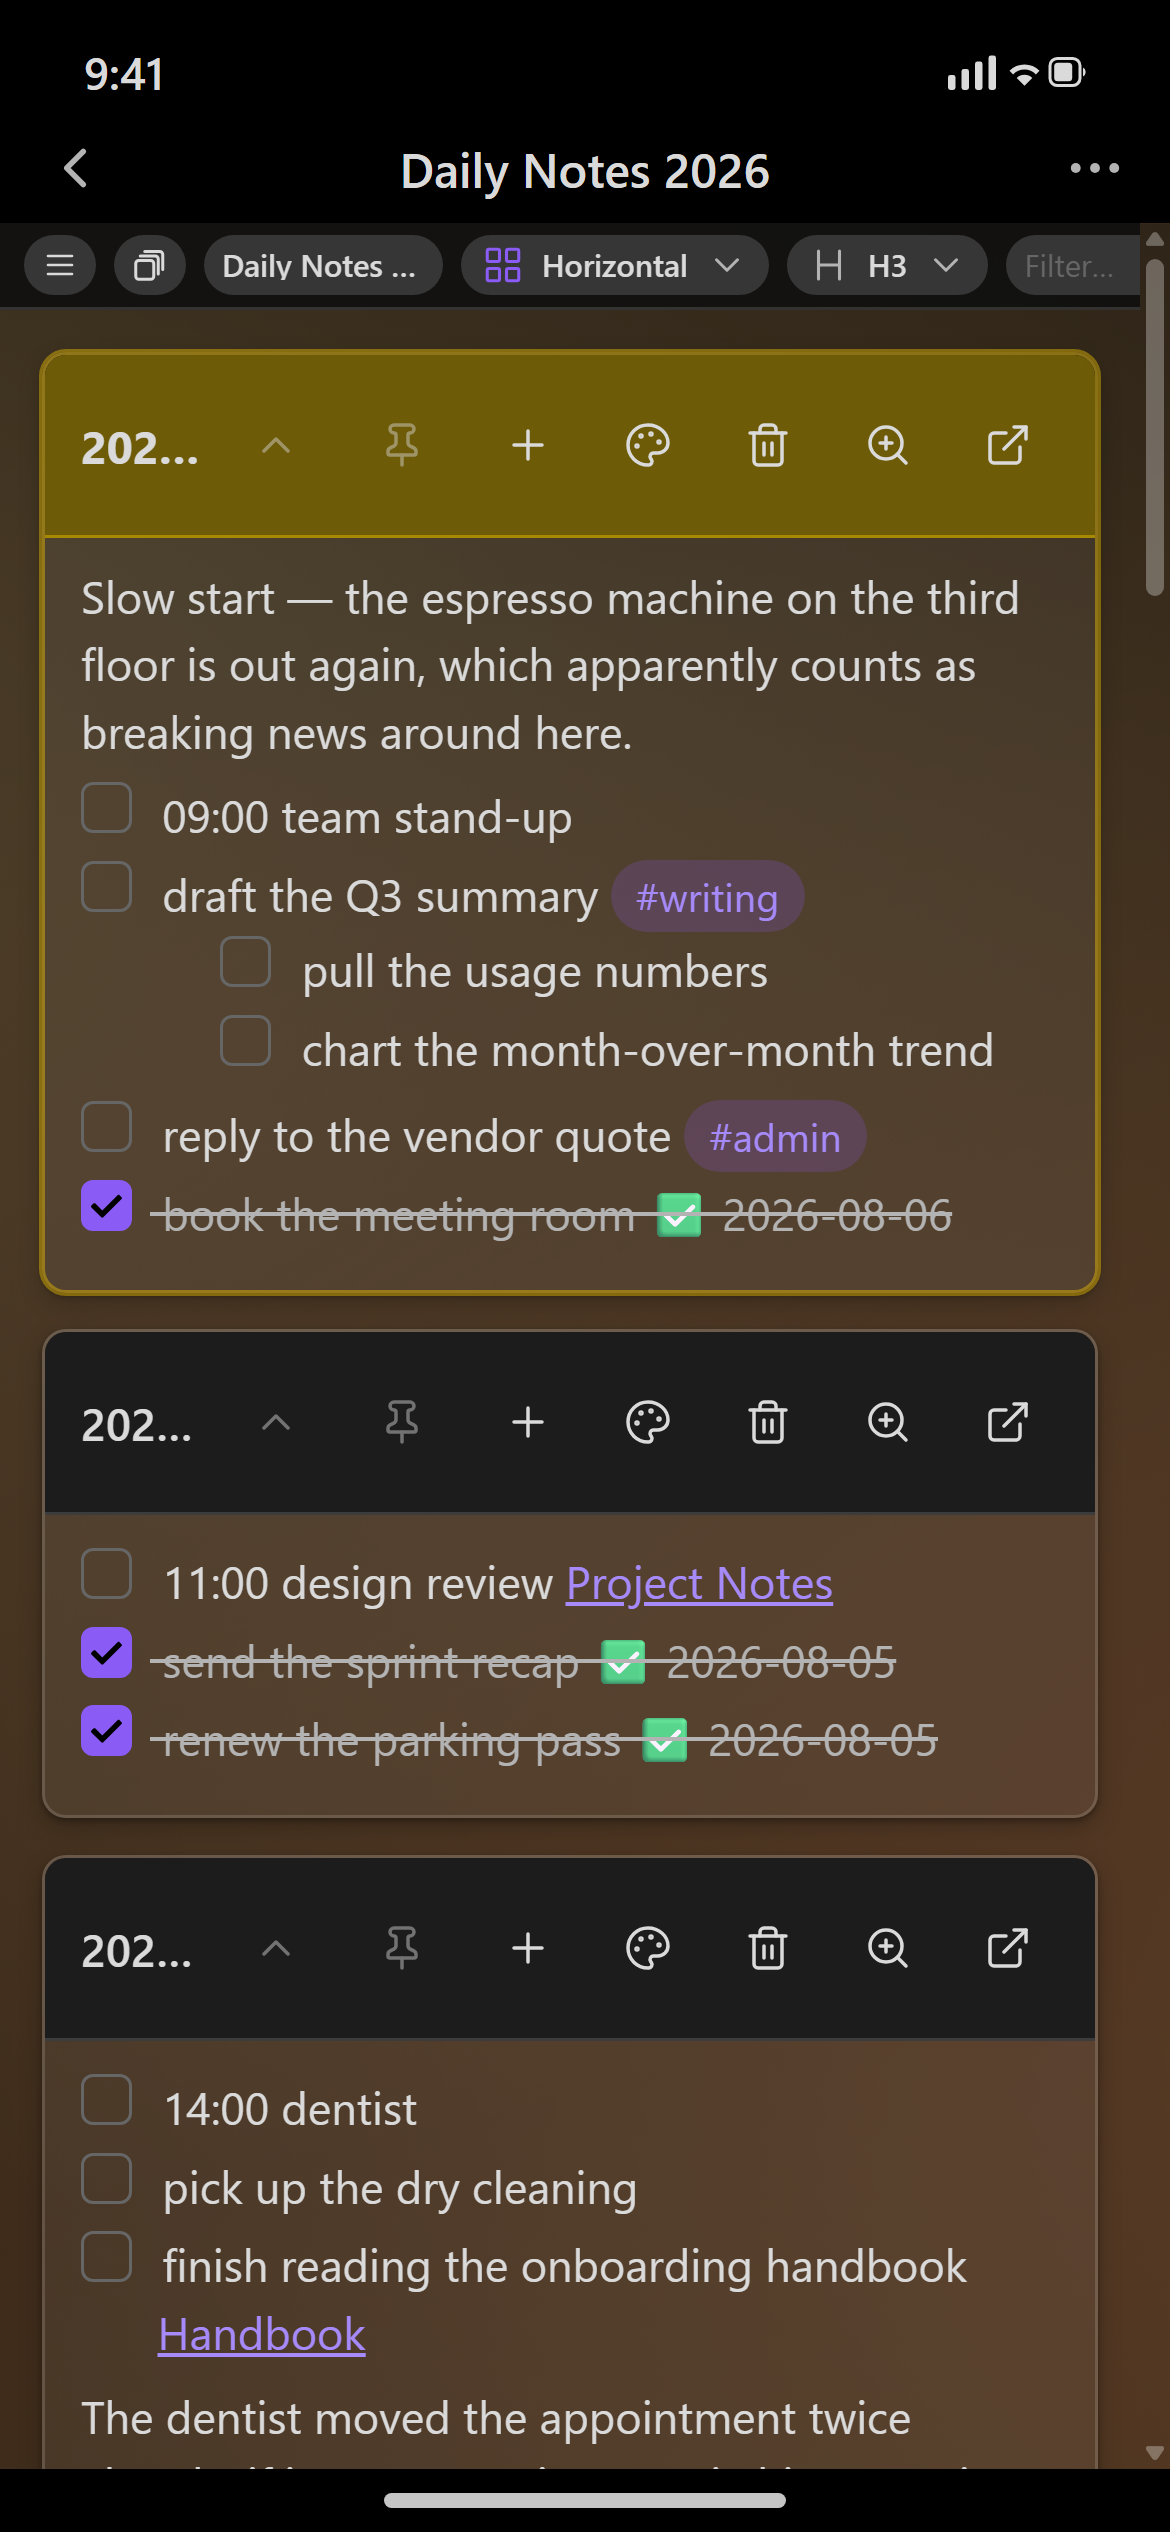
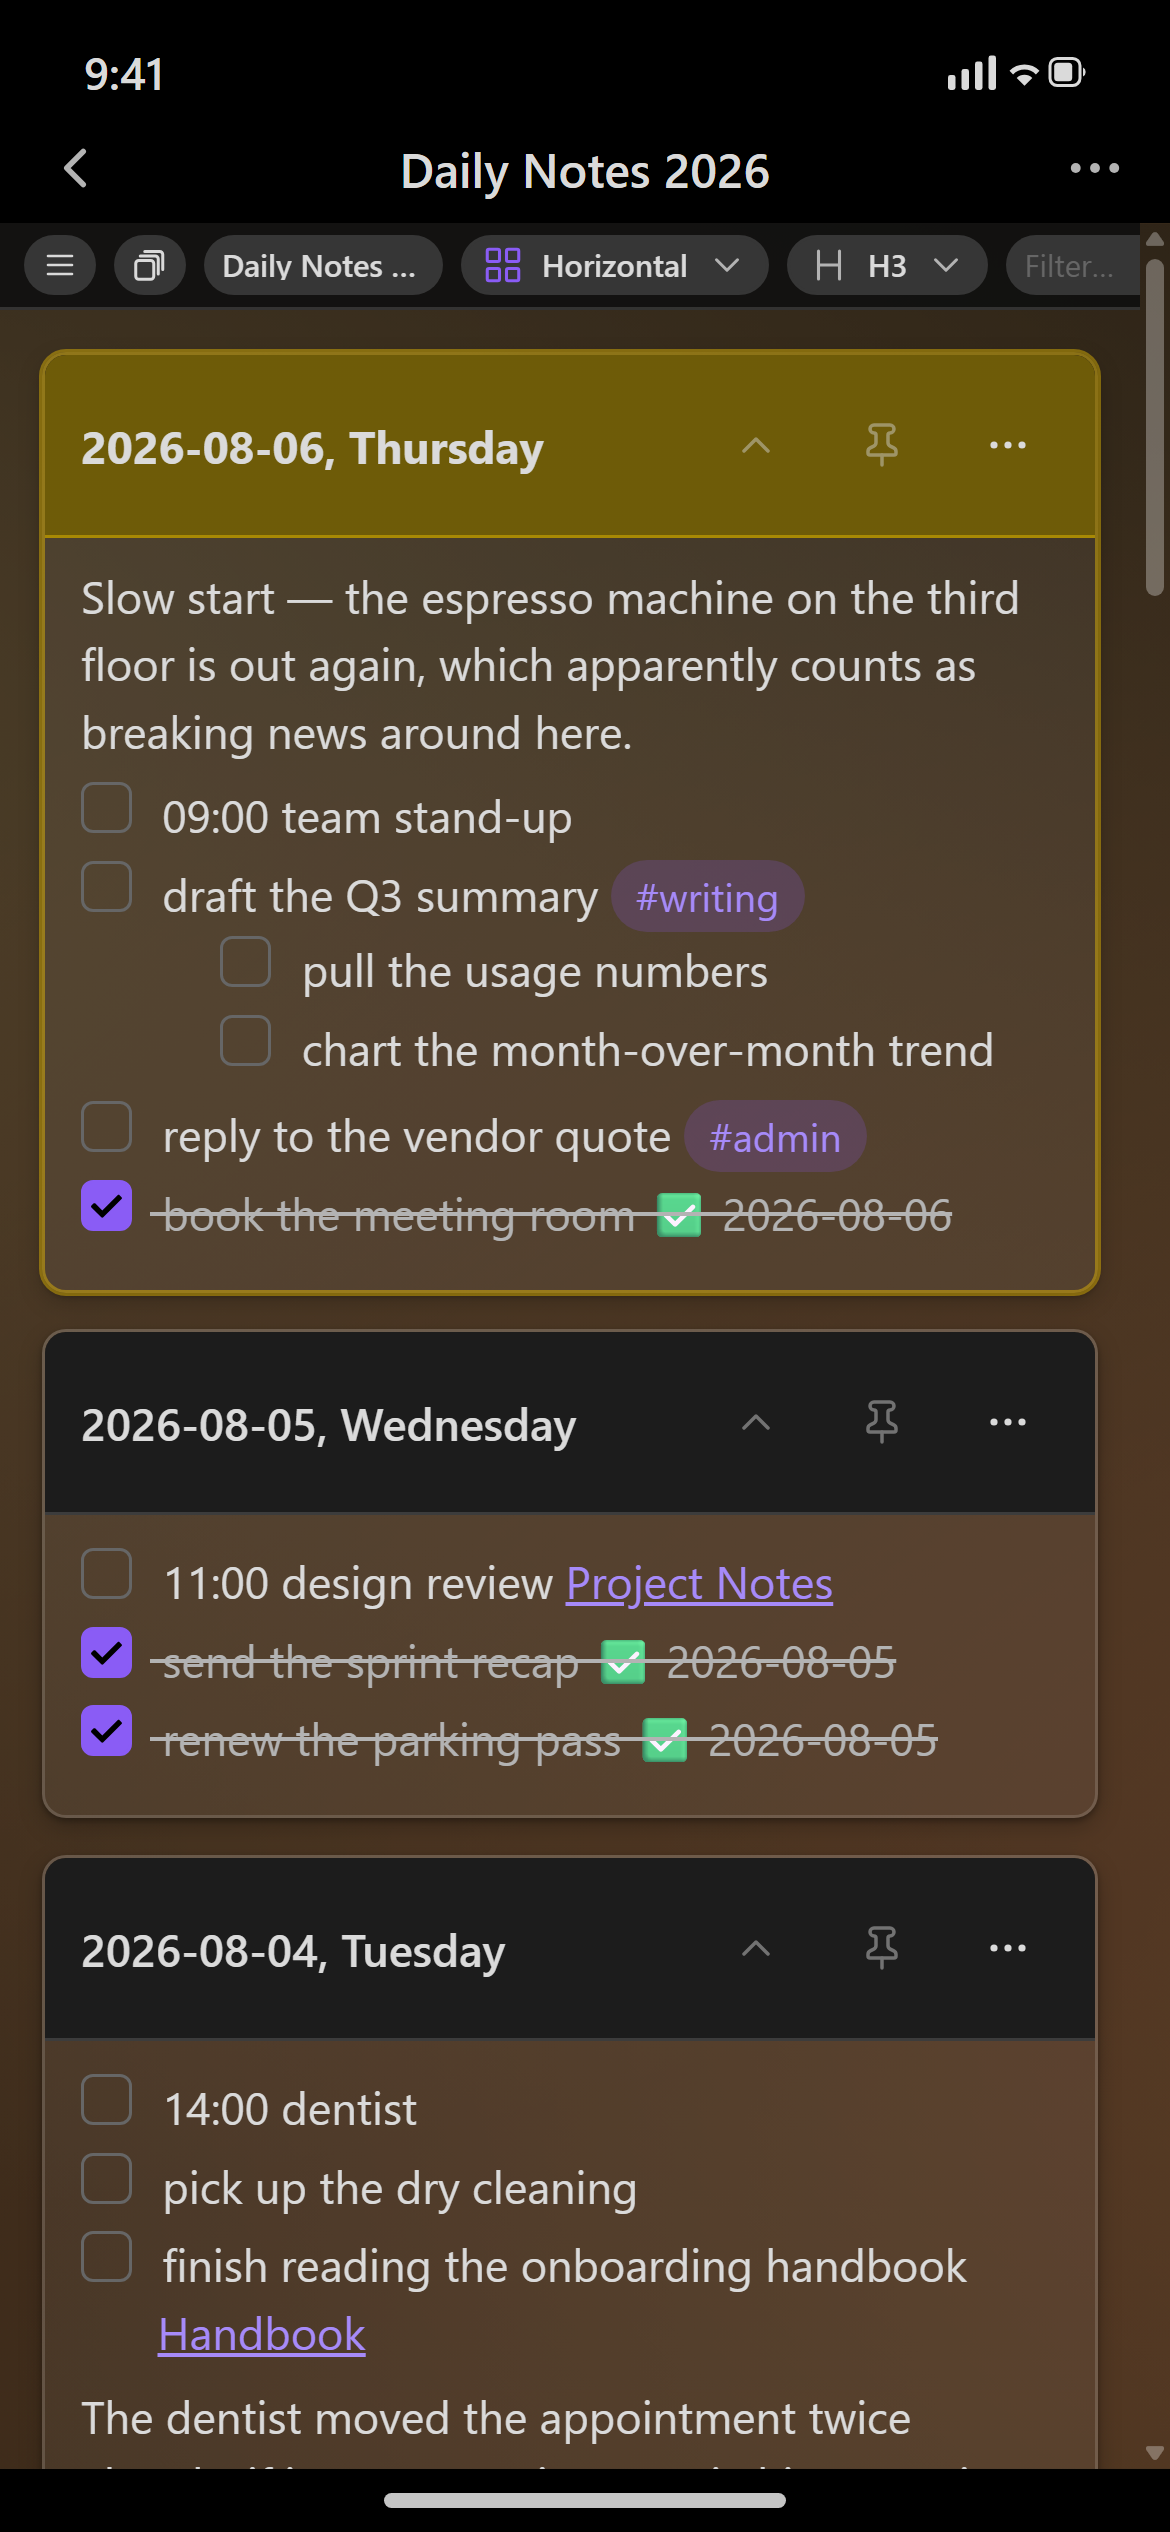
README: On mobile — improved and regularly tested; screenshot redrawn with the ⋯ card button and trimmed toolbar

diff --git a/README.md b/README.md
@@ -256,12 +256,12 @@ selected column row in Hierarchy, scrolling the previous/next bar to the top in 
 
 ## On mobile
 
-The plugin works reasonably well on iOS devices, though it isn't fully tested there
-yet. The **Horizontal** layout in particular makes an excellent way to input data
-while on the go: one full-width card per section, with quick add, checkboxes, and
-in-place editing a thumb-tap away. On a phone or tablet the cards' action strip stays out of the
-title bar; tap a card's **⋯** button for its menu instead: quick add, color, delete, rename, open
-in the note, and the rest.
+Mobile support has been greatly improved and is now regularly tested on iOS. The
+**Horizontal** layout makes an excellent way to input data on the go: one full-width card per
+section, with quick add, checkboxes, and in-place editing a thumb-tap away. On a phone or tablet
+the title bar keeps the full card title: tap a card's **⋯** button for its actions (quick add,
+color, rename, delete, open in the note, and the rest). The toolbar is trimmed to fit, and its
+calendar button opens the system date picker to jump to a day's card.
 
 <img src="screenshots/mobile-horizontal.png" alt="The Horizontal layout on an iPhone" width="320">
 
